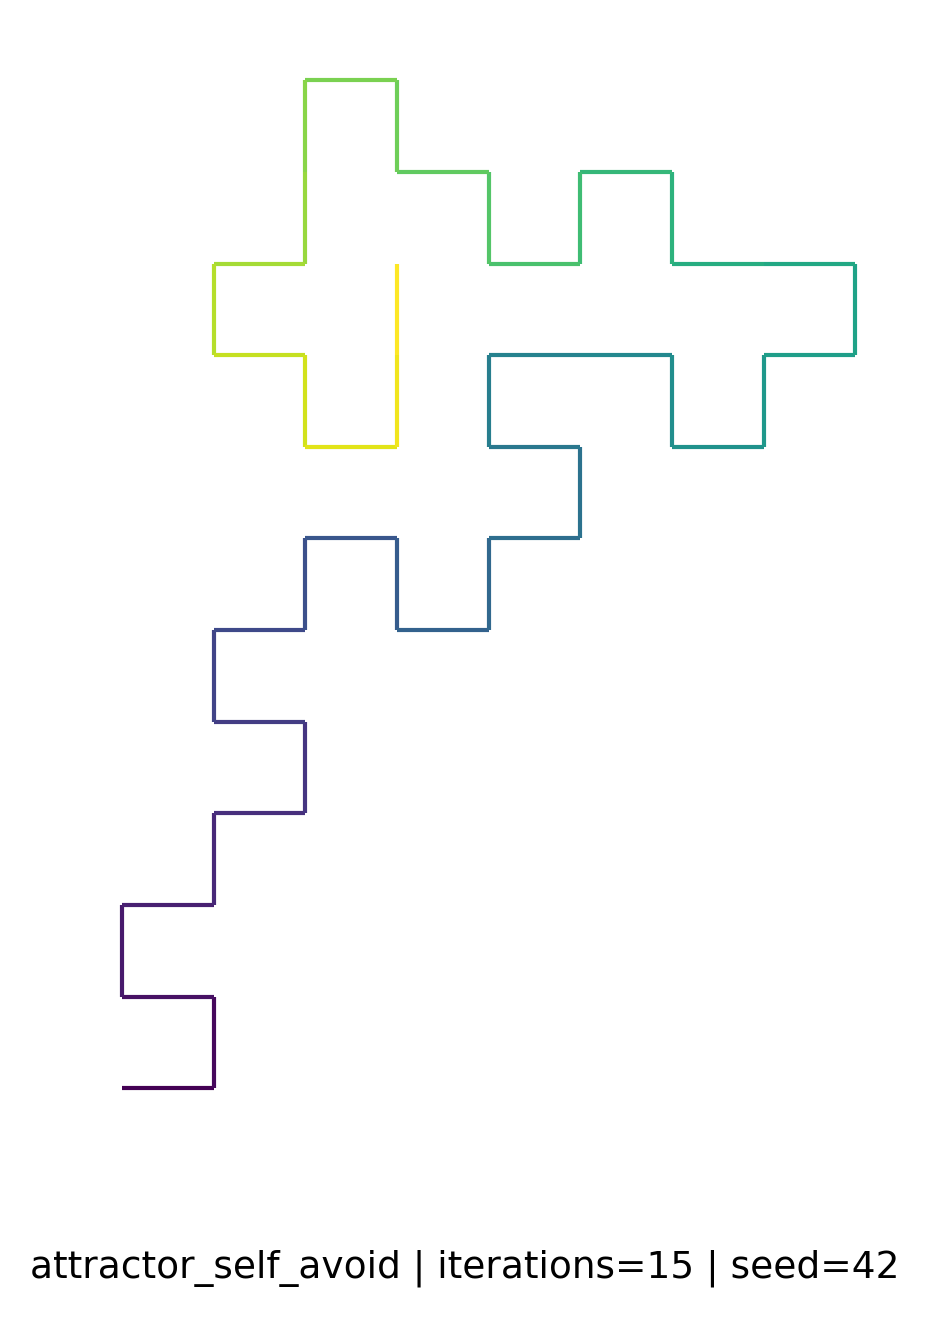
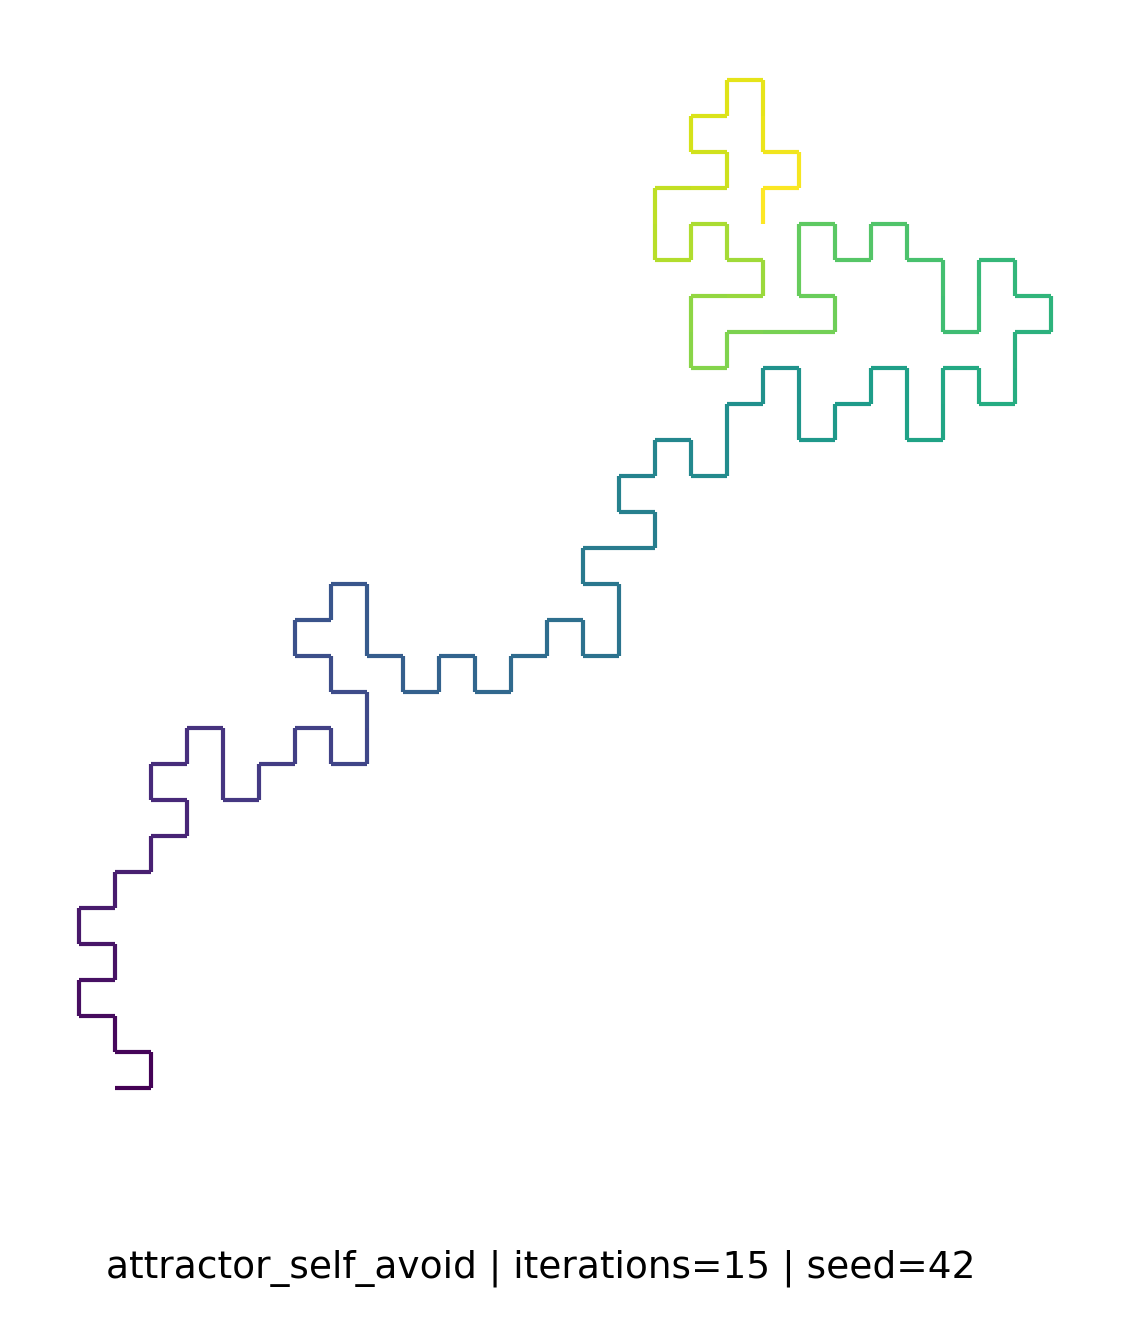
seeded random added to attractor and attractor + self avoid
to make sure the iterations are not reseting a new random every new run per iterations numbers

diff --git a/A2/fractal_generator.py b/A2/fractal_generator.py
@@ -211,19 +211,24 @@ if __name__ == "__main__":
 
         # attractor only
         BASE_TITLE = "attractor"
+        np.random.seed(SEED)
         points = build_points(
-            turns, step=STEP, avoid_self=False,
-            use_attractor=USE_ATTRACTOR, attractor=ATTRACTOR, bias_strength=BIAS_STRENGTH
+            turns, step=STEP,
+            avoid_self=False,
+            use_attractor=True, attractor=ATTRACTOR, bias_strength=BIAS_STRENGTH
         )
         output(points)
 
-        # attractor + self_avoid
+        # attractor + self avoid
         BASE_TITLE = "attractor_self_avoid"
+        np.random.seed(SEED)
         points = build_points(
-            turns, step=STEP, avoid_self=True, stop_on_collision=STOP_ON_COLLISION,
-            use_attractor=USE_ATTRACTOR, attractor=ATTRACTOR, bias_strength=BIAS_STRENGTH
+            turns, step=STEP,
+            avoid_self=True, stop_on_collision=STOP_ON_COLLISION,
+            use_attractor=True, attractor=ATTRACTOR, bias_strength=BIAS_STRENGTH
         )
         output(points)
+
 
 
 
